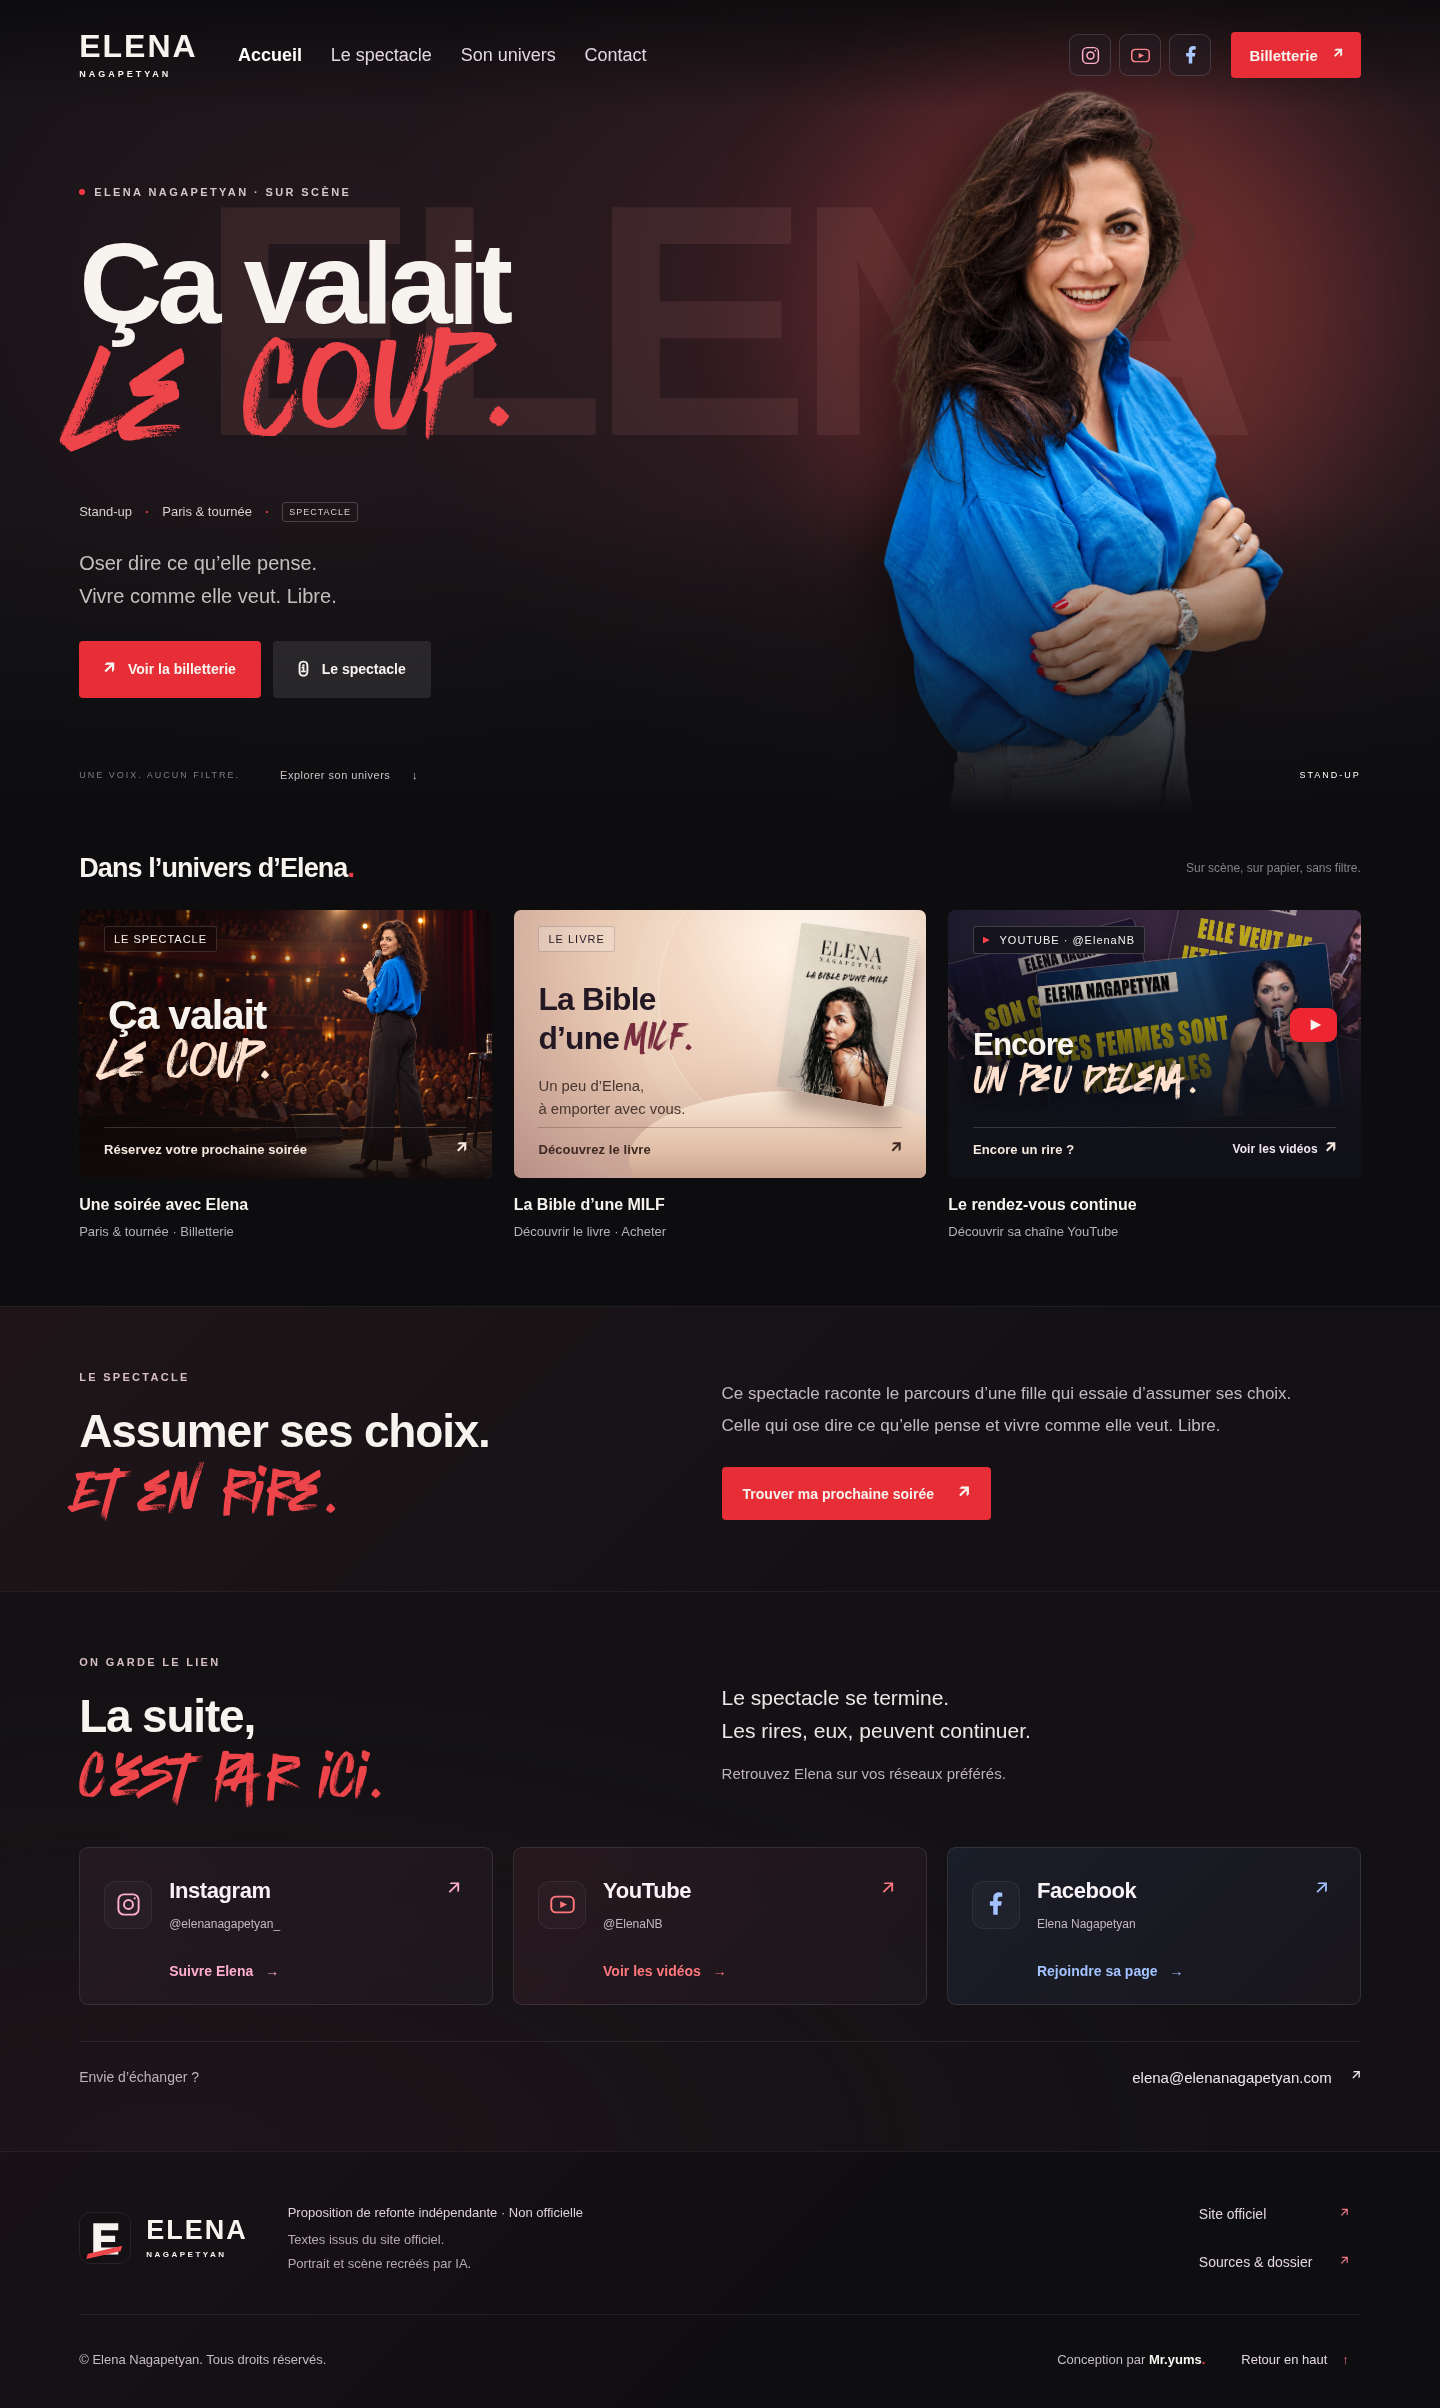
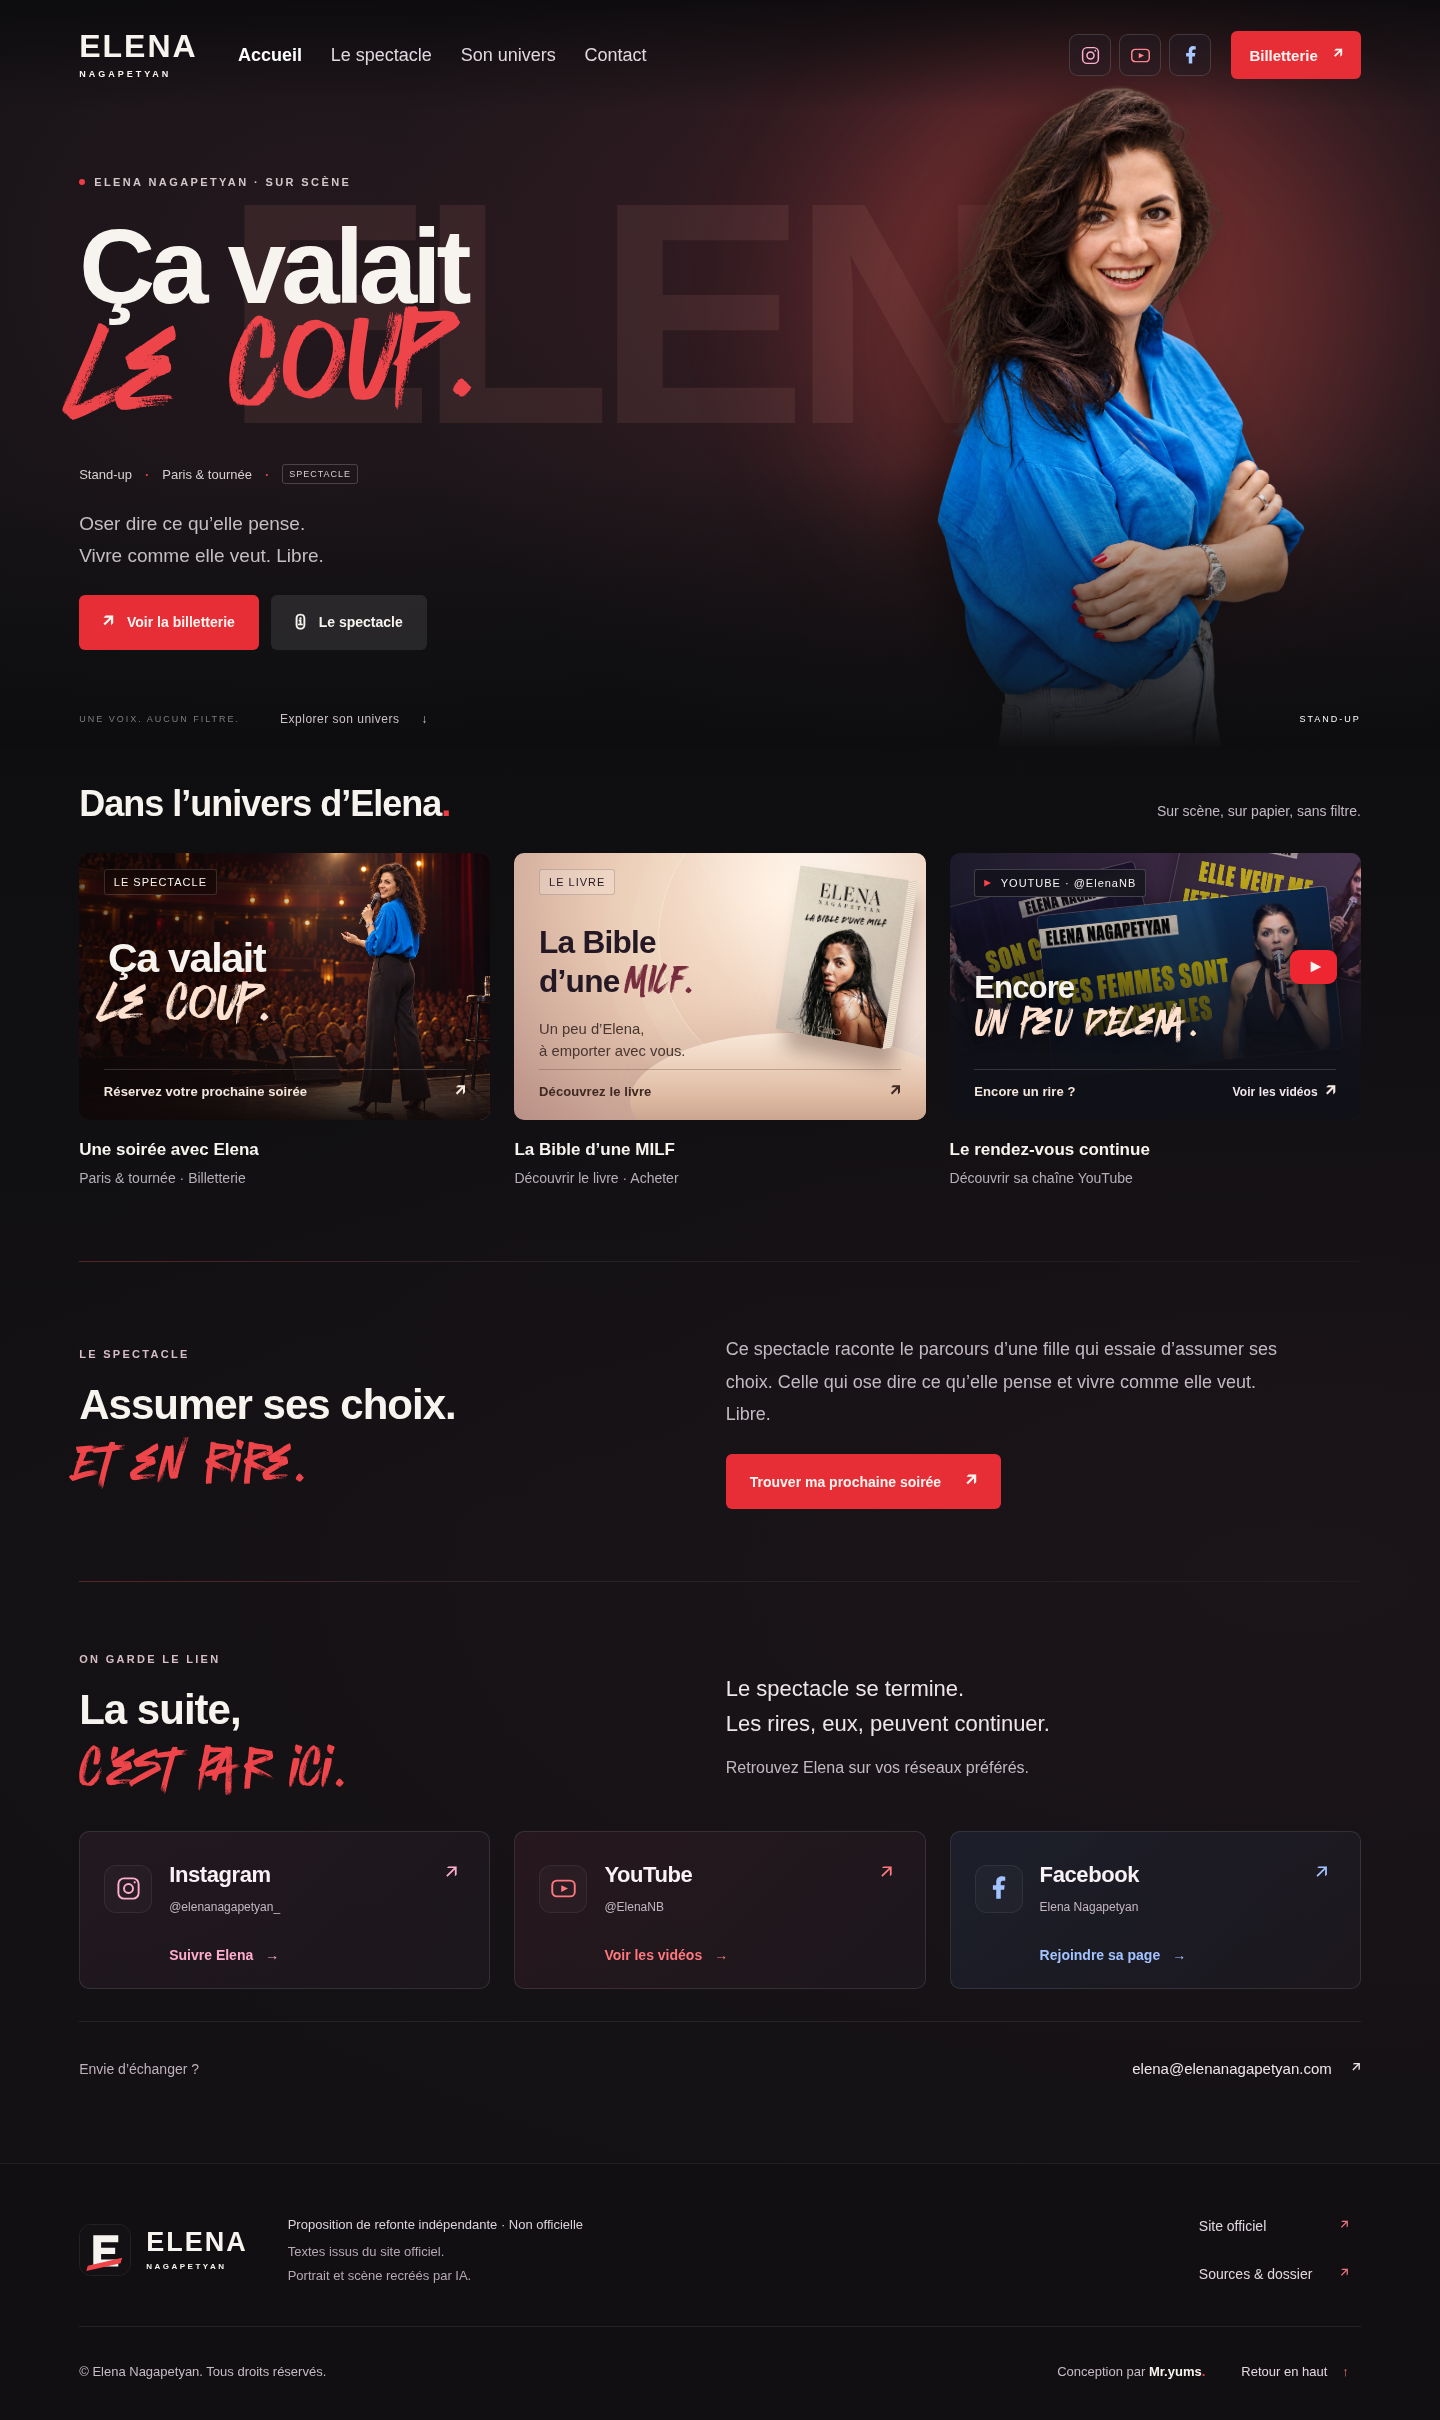
[Sol · GPT-6 · 19/09/2026] Harmoniser les proportions et le rythme de toute la page

diff --git a/site/style.css b/site/style.css
@@ -218,3 +218,47 @@ header .tickets span{margin-left:16px}
 .book .book-copy{left:6%;top:27%;width:49%}
 .book .book-copy strong{font-size:clamp(26px,7.7cqw,37px);line-height:1.12;margin:0 0 17px;letter-spacing:-.8px}
 .book .book-copy small{font-size:clamp(13px,3.6cqw,17px);line-height:1.5}
+
+/* Rythme commun du premier visuel jusqu'au contact. */
+:root{--section-space:clamp(48px,5vw,76px);--layout-gap:24px;--surface:#131114;--muted:#c3b9c2}
+main{background:radial-gradient(ellipse 100% 32% at 90% 73%,#39212c38,transparent),linear-gradient(#0d0d0f 25%,#131114 70%)}
+.catalog{padding-top:32px;padding-bottom:var(--section-space)}
+.section-heading{align-items:baseline;gap:24px;margin-bottom:28px}
+.section-heading h2{font-size:clamp(28px,2.6vw,36px);line-height:1.2;letter-spacing:-1px}
+.section-heading>span{font-size:14px;color:var(--muted)}
+.cards,.contact .socials{gap:var(--layout-gap)}
+.card .card-art,.socials .social-link{border-radius:10px}
+.card .card-caption h3{margin:18px 0 6px;font-size:17px;line-height:1.4}.card .card-caption p{font-size:14px}
+.story,.contact{padding-top:var(--section-space);padding-bottom:var(--section-space);column-gap:clamp(32px,5vw,72px);background:transparent;border-top:0;position:relative}
+.story::before,.contact::before{content:"";position:absolute;top:0;left:var(--page-gutter);right:var(--page-gutter);height:1px;background:linear-gradient(90deg,#ee454b55,#ffffff14 35%,#ffffff08)}
+.story h2,.contact h2{font-size:clamp(32px,3vw,42px);line-height:1.18;letter-spacing:-1px}
+.story h2 em,.contact h2 em{font-size:1.15em;margin-top:7px}
+.story .eyebrow,.contact .eyebrow{margin-bottom:20px}
+.story-copy p{font-size:18px;line-height:1.8;color:var(--muted);margin-bottom:24px}
+.contact{row-gap:32px}.contact-intro{font-size:22px;line-height:1.6}.contact-intro>span{font-size:16px;color:var(--muted)}
+.button,header .tickets{border-radius:6px;min-height:48px}.story-booking{font-size:14px;padding:16px 24px}
+.contact .email{min-height:44px}.site-footer{background:#110f12}
+@media(min-width:1101px){
+ .hero{min-height:740px;padding-bottom:100px}
+ .hero-content{padding-top:165px;width:600px}
+ .hero h1{font-size:clamp(90px,7.3vw,112px);margin:24px 0 26px}
+ .hero .intro{font-size:19px;margin:24px 0}.hero .button{padding:16px 24px}
+ .portrait{height:780px;top:82px;right:calc(var(--page-gutter) + 45px)}
+ .backword{top:155px;font-size:clamp(220px,22vw,340px)}
+ .hero-bottom{bottom:24px}.hero-bottom a{font-size:12px}
+}
+@media(min-width:761px) and (max-width:1000px){
+ .cards{display:grid;grid-template-columns:1fr;overflow:visible;scroll-snap-type:none;padding:0;max-width:580px;margin-inline:auto;gap:32px}
+ .card{width:100%}.card .card-art{height:310px}
+}
+@media(max-width:760px){
+ :root{--section-space:44px;--layout-gap:28px}
+ .catalog{padding-top:28px}.section-heading{margin-bottom:24px}
+ .section-heading h2{font-size:28px}.section-heading>span{display:none}
+ .cards{max-width:none}.card .card-caption h3{font-size:17px;margin-top:15px}.card .card-caption p{font-size:13px}
+ .story,.contact{grid-template-columns:minmax(0,1fr);gap:25px}
+ .story h2,.contact h2{font-size:34px}.story-copy p{font-size:16px}
+ .contact-intro{font-size:20px}.contact-intro>span{font-size:15px}
+ .contact .socials{gap:14px}.contact-mail{padding-top:22px}
+ .hero .button{min-height:48px;font-size:12px}
+}

diff --git a/site/index.html b/site/index.html
@@ -1,5 +1,5 @@
 <!doctype html>
-<html lang="fr"><head><meta charset="utf-8"><meta name="viewport" content="width=device-width,initial-scale=1"><meta name="robots" content="noindex,nofollow"><meta name="description" content="Une proposition créative autour de l’univers d’Elena Nagapetyan."><title>Elena — Ça valait le coup · Concept</title><link rel="icon" type="image/png" sizes="32x32" href="assets/favicon-32.png"><link rel="icon" type="image/svg+xml" href="assets/favicon.svg"><link rel="apple-touch-icon" sizes="180x180" href="assets/apple-touch-icon.png"><link rel="stylesheet" href="style.css?v=book-13"></head>
+<html lang="fr"><head><meta charset="utf-8"><meta name="viewport" content="width=device-width,initial-scale=1"><meta name="robots" content="noindex,nofollow"><meta name="description" content="Une proposition créative autour de l’univers d’Elena Nagapetyan."><title>Elena — Ça valait le coup · Concept</title><link rel="icon" type="image/png" sizes="32x32" href="assets/favicon-32.png"><link rel="icon" type="image/svg+xml" href="assets/favicon.svg"><link rel="apple-touch-icon" sizes="180x180" href="assets/apple-touch-icon.png"><link rel="stylesheet" href="style.css?v=harmony-14"></head>
 <body>
 <a class="skip" href="#spectacle">Aller au contenu</a>
 <header><a class="brand" href="#accueil" aria-label="Elena, accueil">ELENA<span>NAGAPETYAN</span></a><nav aria-label="Navigation principale"><a class="active" href="#accueil">Accueil</a><a href="#spectacle">Le spectacle</a><a href="#univers">Son univers</a><a href="#contact">Contact</a></nav><div class="header-actions"><div class="header-socials" aria-label="Réseaux sociaux"><a class="header-social header-instagram" href="https://www.instagram.com/elenanagapetyan_/" target="_blank" rel="noopener noreferrer" aria-label="Elena sur Instagram" title="Elena sur Instagram"><svg aria-hidden="true" viewBox="0 0 24 24" fill="none" stroke="currentColor" stroke-width="1.7"><rect x="3" y="3" width="18" height="18" rx="5"/><circle cx="12" cy="12" r="4"/><circle cx="17.5" cy="6.5" r="1" fill="currentColor" stroke="none"/></svg></a><a class="header-social header-youtube" href="https://www.youtube.com/@ElenaNB" target="_blank" rel="noopener noreferrer" aria-label="Elena sur YouTube" title="Elena sur YouTube"><svg aria-hidden="true" viewBox="0 0 24 24" fill="none" stroke="currentColor" stroke-width="1.7"><rect x="2" y="5" width="20" height="14" rx="4"/><path d="m10 9 6 3-6 3Z" fill="currentColor" stroke="none"/></svg></a><a class="header-social header-facebook" href="https://www.facebook.com/p/Elena-Nagapetyan-100076068015422/" target="_blank" rel="noopener noreferrer" aria-label="Elena sur Facebook" title="Elena sur Facebook"><svg aria-hidden="true" viewBox="0 0 24 24" fill="none" stroke="currentColor" stroke-width="1.7"><path d="M14 21v-8h3l.5-4H14V7c0-1 .4-2 2-2h2V1.5A25 25 0 0 0 15 1c-3 0-5 2-5 5v3H7v4h3v8Z" fill="currentColor" stroke="none"/></svg></a></div><a class="tickets" href="https://linktr.ee/elenanb" target="_blank" rel="noopener noreferrer">Billetterie <span>↗</span></a></div></header>

diff --git a/docs/VALIDATION.md b/docs/VALIDATION.md
@@ -36,3 +36,7 @@ Identité avec monogramme, fond bordeaux discret, grille de lecture et mentions 
 ## Carte du livre — 19 septembre 2026
 
 Suppression du nom répété au-dessus du titre, titre et accroche agrandis, bloc élargi et repositionné. Contrôles Chromium à 320, 390, 620, 768, 1000, 1024, 1440, 1920 et 3440 px : pas de débordement horizontal, espace préservé entre texte et CTA. Captures de la carte inspectées à 320 et 1440 px. Captures et kit actualisés.
+
+## Harmonisation globale — 19 septembre 2026
+
+Hero plus compact sur ordinateur, proportions titre/portrait rééquilibrées, fonds continus, titres et espacements cohérents, séparateurs alignés sur le contenu, boutons et rayons harmonisés. Cartes verticales aussi sur tablette. Contrôles Chromium à 320, 390, 620, 768, 1000, 1024, 1101, 1440, 1920 et 3440 px : aucun débordement horizontal, pas de chevauchement texte/CTA dans le livre ni actions/repères dans le hero. Captures complètes inspectées à 390 et 1440 px ; aucune erreur JavaScript durant les nouvelles captures. Quatre captures et kit actualisés.
